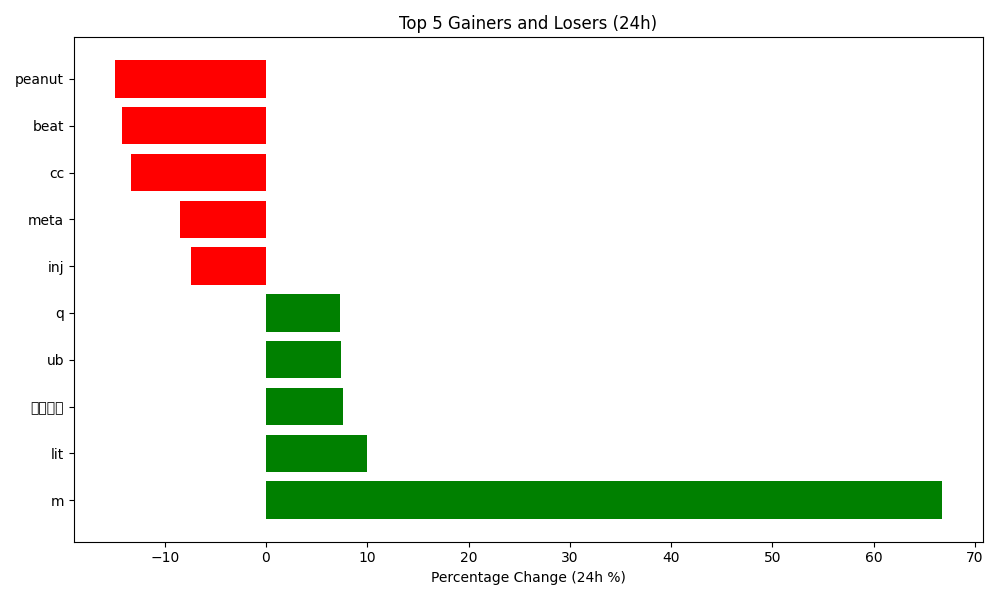
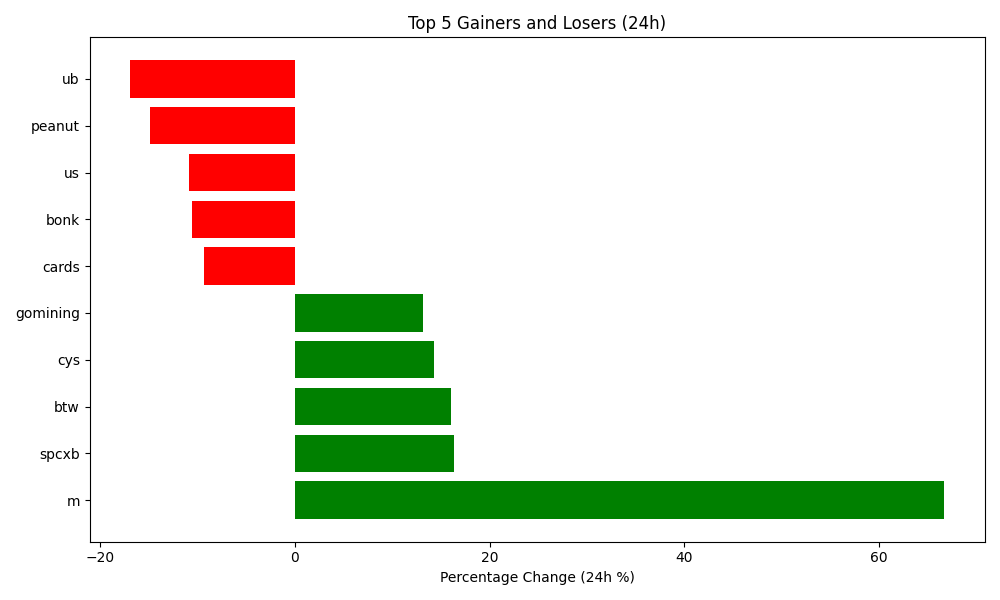
Auto-update crypto data and plot

diff --git a/README.md b/README.md
@@ -4,7 +4,7 @@ Author: Hitesh Agrawal
 This repository automatically tracks the top 5 gaining, top 5 losing, and top 5 highest volume cryptocurrencies in the last 24 hours using the CoinGecko API, Python, Matplotlib, and GitHub Actions updates the below content everyday at midnight.
 
 <!-- START_DYNAMIC_CONTENT -->
-Last updated: 2026-08-07 02:14 UTC
+Last updated: 2026-08-08 01:02 UTC
 
 ![Crypto Movers Plot](crypto_movers_plot.png)
 
@@ -13,32 +13,32 @@ Last updated: 2026-08-07 02:14 UTC
 | Rank | Coin | Price Change (24h %) | Volume (USD) | Current Price (USD) |
 | :--: | :--: | :------------------: | :----------: | :-----------------: |
 | 1 | m | 66.70% | $383,597 | $1.2900 |
-| 2 | lit | 10.00% | $45,979,621 | $2.3700 |
-| 3 | 币安人生 | 7.60% | $11,621,580 | $0.5440 |
-| 4 | ub | 7.40% | $38,592,828 | $0.1571 |
-| 5 | q | 7.30% | $1,979,417 | $0.0231 |
+| 2 | spcxb | 16.30% | $179,205,131 | $132.8300 |
+| 3 | btw | 16.00% | $25,145,274 | $0.2242 |
+| 4 | cys | 14.30% | $34,269,475 | $0.9493 |
+| 5 | gomining | 13.20% | $7,841,200 | $0.2916 |
 
 
 **👇 Top 5 Losers (24h)**
 
 | Rank | Coin | Price Change (24h %) | Volume (USD) | Current Price (USD) |
 | :--: | :--: | :------------------: | :----------: | :-----------------: |
-| 1 | peanut | -14.90% | $2 | $0.0006 |
-| 2 | beat | -14.20% | $69,798,854 | $2.0600 |
-| 3 | cc | -13.30% | $18,028,799 | $0.0909 |
-| 4 | meta | -8.50% | $3,054,057 | $5.0700 |
-| 5 | inj | -7.40% | $50,244,371 | $4.5000 |
+| 1 | ub | -16.90% | $27,900,613 | $0.1391 |
+| 2 | peanut | -14.90% | $2 | $0.0006 |
+| 3 | us | -10.90% | $10,630,022 | $0.0508 |
+| 4 | bonk | -10.60% | $78,886,621 | $0.0000 |
+| 5 | cards | -9.30% | $1,696,627 | $0.1417 |
 
 
 **💎 Top 5 by Trade Volume (24h)**
 
 | Rank | Coin | Price Change (24h %) | Volume (USD) | Current Price (USD) |
 | :--: | :--: | :------------------: | :----------: | :-----------------: |
-| 1 | usdt | 0.00% | $31,401,224,614 | $0.9992 |
-| 2 | btc | -0.30% | $18,402,779,117 | $64,281.0000 |
-| 3 | usdc | 0.00% | $8,288,454,956 | $0.9996 |
-| 4 | eth | -0.40% | $6,945,376,718 | $1,899.2300 |
-| 5 | sol | -1.90% | $1,414,355,904 | $72.5900 |
+| 1 | usdt | 0.00% | $35,273,031,901 | $0.9995 |
+| 2 | btc | 0.90% | $21,746,691,674 | $64,880.0000 |
+| 3 | usdc | 0.00% | $9,191,894,842 | $0.9997 |
+| 4 | eth | 0.60% | $7,885,158,138 | $1,913.0500 |
+| 5 | xrp | -0.90% | $1,551,174,052 | $1.0240 |
 
 
 <!-- END_DYNAMIC_CONTENT -->
